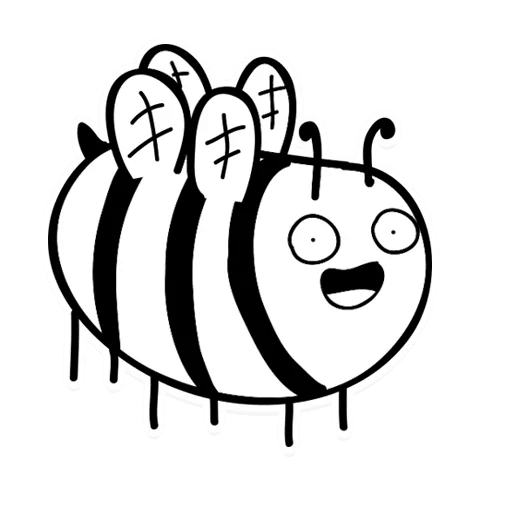
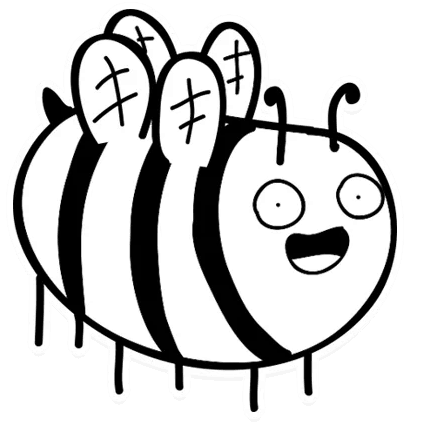
upd

Changed region(s): [[0.0307, 0.0, 0.9527, 0.9835]]

diff --git a/index.html b/index.html
@@ -7,8 +7,29 @@
 	<meta name="viewport" content="width=device-width, initial-scale=1">
 	<link rel="stylesheet" href="node_modules/shower-ribbon/styles/screen-16x10.css">
 	<style type="text/css">
+		@keyframes -shmel-hover {
+			0% {
+				transform: translate3d(0, 0, 0);
+				animation-timing-function:  ease-out;
+			}
+			50% {
+				transform: translate3d(0, -15px, 0);
+				animation-timing-function:  ease-in;
+			}
+			100% {
+				transform: translate3d(0, 0, 0);
+				animation-timing-function:  ease-out;
+			}
+		}
+
 		.intro:after {
 			display: none;
+		}
+
+		.shmel {
+			animation: -shmel-hover 1.5s infinite;
+			margin-top: -30px;
+			margin-bottom: 30px;
 		}
 	</style>
 </head>
@@ -21,10 +42,8 @@
 
 	<section class="slide intro">
 		<div>
-            
+            <img class="shmel" src="pictures/shmel.png" width="256" height="256">
             <h2>WTF is AMP и почему шмель летает?</h2>
-            <img src="pictures/shmel.png" width="256" height="256">
-            <!-- TODO: (заставить шмеля летать / парить) -->
             <p>
                 Андрей Абрамов, <a href="https://vk.com/team" target="_blank">Команда ВКонтакте</a>
                 <br> Web Standards Days, Ноябрь 2017
@@ -32,21 +51,15 @@
         </div>		
 	</section>
 
-	<!-- <section class="slide">
-		<p>
-			Карта где я жил
-		</p>
-	</section> -->
-
 	<section class="slide">
 		<h2>О чем поговорим</h2>
 		<ol>
-			<li>Что не так с мобильным вебом?</li>
-			<li>Технология AMP &mdash; мгновенная отрисовка страниц</li>
-			<li>Практикум. Делаем AMP-версию страницы</li>
-			<li>Система AMP-компонентов</li>
-			<li>(?) Разбираем что у AMP под капотом</li>
-			<li>Что ждет технологию?</li>
+			<li class="next">Что не так с мобильным вебом?</li>
+			<li class="next">AMP &mdash; мгновенная отрисовка страниц</li>
+			<li class="next">Практикум. Делаем AMP-версию страницы</li>
+			<li class="next">Система AMP-компонентов</li>
+			<li class="next">Почему AMP такой быстрый?</li>
+			<li class="next">Что ждёт технологию?</li>
 		</ol>
 	</section>
 
@@ -64,13 +77,11 @@
 	</section>
 
 	<section class="slide">
-		<h2>Пользователи эволюционировали в мобайл</h2>
-		<!-- <h2>Смените мозг на мобильный</h2> -->
+		<h2>Мы эволюционировали</h2>
 		<ul>
 			<li class="next">Мобильного трафика сегодня больше чем десктопного</li>
-			<li class="next">2016 году Google объявила о планах <a href="https://webmasters.googleblog.com/2016/11/mobile-first-indexing.html">mobile-first индексации</a></li>
-			<li class="next">Уже с часов можно выходить в интернет</li>
-			<!-- <img src="pictures/evol.jpg"> -->
+			<li class="next">В 2016 году Google объявил о планах <a href="https://webmasters.googleblog.com/2016/11/mobile-first-indexing.html">mobile-first индексации</a></li>
+			<img src="pictures/evol.jpg">
 		</ul>
 	</section>
 
@@ -115,7 +126,7 @@
 	</section>
 
 	<section class="slide">
-		<img class="cover" src="pictures/bombus.jpg" alt="Bombus">
+		<img class="cover" src="pictures/bombus2.jpg" alt="Bombus">
 	</section>
 
 	<section class="slide">
@@ -232,11 +243,7 @@
 			<li><a href="https://github.com/tinovyatkin/postcss-amp">PostCSS AMP plugin</a></li>
 			<li><a href="https://chrome.google.com/webstore/detail/amp-validator/nmoffdblmcmgeicmolmhobpoocbbmknc?hl=en">AMP Chrome extension</a></li>
 		</ul>
-	</section>
-
-	<section class="slide">
-		<h2>У меня WordPress</h2>
-		<p>Вам <a href="https://wordpress.org/plugins/amp/">сюда</a></p>
+		<p class="note next"><a href="https://wordpress.org/plugins/amp/">А если у меня WordPress?</a></p>
 	</section>
 
 	<section class="slide">
